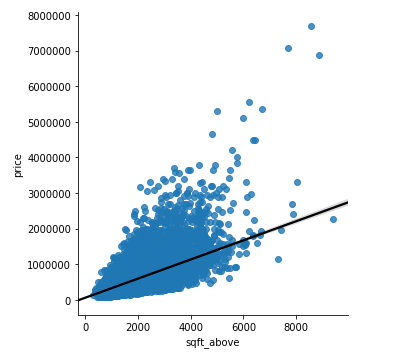
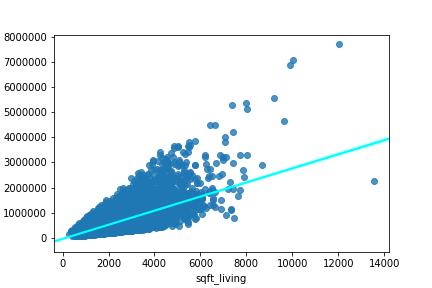
Fix description of challenge 3

diff --git a/challenge-3/solutions/train.py b/challenge-3/solutions/train.py
@@ -20,7 +20,7 @@ df = package.run('Data analysis.dprep', dataflow_idx=0)
 
 df_train, df_validation = train_test_split(df, test_size=0.2)
 
-feature_names = ['sqft_above', 'sqft_basement', 'grade', 'condition', 'bedrooms', 'waterfront','floors', 'sqft_lot']
+feature_names = ['sqft_living','sqft_above', 'sqft_basement', 'grade','bedrooms', 'waterfront','floors', 'view']
 
 features = df_train[feature_names].values
 y = df_train[['price']].values

diff --git a/challenge-3/README.md b/challenge-3/README.md
@@ -3,6 +3,9 @@ In the previous challenge you established that a number of features in the
 dataset seem to correlate to the price of a home. This means we can build
 a model for it.
 
+It's good news for your real estate agency. It means they get a solution that
+can actually help set a better price for homes.
+
 In this challenge you're going to build a model based on the findings in the 
 previous challenge. Don't worry if you coulnd't quite finish the previous 
 challenge. In this challenge I will include all the necessary details so you
@@ -11,11 +14,10 @@ can still build the model.
 ## A little background
 The model for predicting a continuous value like the price of a house is called
 a regression model. Regression models are models that try to fit a line through
-a set of observations so that the line best fits the observations previously 
-seen.
+a set of observations so that the line best fits those observations.
 
-Remember, observations are rows in the table of the dataset. Features are the
-columns in the table.
+> Remember, observations are rows in the table of the dataset. Features are the
+  columns in the table.
 
 As an example, check the plot below. It shows the 
 square footage above ground compared to the price those homes were sold for.
@@ -27,8 +29,8 @@ that best fits the observations.
 Notice that the model isn't perfect, the difference between 
 the line (the prediction) and the actual observations is off by quite a bit.
 
-What does this mean? Clearly using only square footage above ground in the 
-regression model isn't enough to predict the price. We need to include 
+What does this mean? Clearly using only square footage of the living space in 
+the regression model isn't enough to predict the price. We need to include 
 more features to get a more accurate prediction of the price.
 
 That is what we're going to do in this challenge. We're going to train a linear
@@ -106,7 +108,7 @@ from the `sklearn.linear_model` package.
 The class can be used like this:
 
 ```
-feature_names = ['sqft_above', 'sqft_basement', 'grade', 'condition']
+feature_names = ['sqft_living', 'sqft_basement', 'grade', 'bathrooms']
 
 features = df_train[feature_names].values
 y = df_train[['price']]
@@ -115,8 +117,8 @@ model = LinearRegression()
 model.fit(features, y)
 ```
 
-We're going to train the model on four features: `sqft_above`, `sqft_basement`,
-`grade` and `condition`. 
+We're going to train the model on four features: `sqft_living`, `sqft_basement`,
+`grade` and `bathrooms`. 
 
 We extract these from the trainingset into an array. We do the same for price.
 
@@ -140,7 +142,7 @@ and results in the details window.
 
 ### Objective: Store the model
 Currently the job doesn't output anything. We do train the model, but we don't
-save it for use later on. That's kind of counter-productive. So let's save the
+save it to disk. That's kind of counter-productive. So let's save the
 model on disk before we move on.
 
 In python you can save objects to disk using the pickle module. 
@@ -201,7 +203,7 @@ Because it enables you to compare the changes in score over time in the
 workbench application. 
 
 ### Objective: Validate your model
-Use the code in the sample above to add validation logic to your model.
+Use the code in the sample above to add validation logic to 'train.py'.
 Be sure to use the same feature names for training and validation.
 
 Run the job again to check the score of your model. Does it look like this
